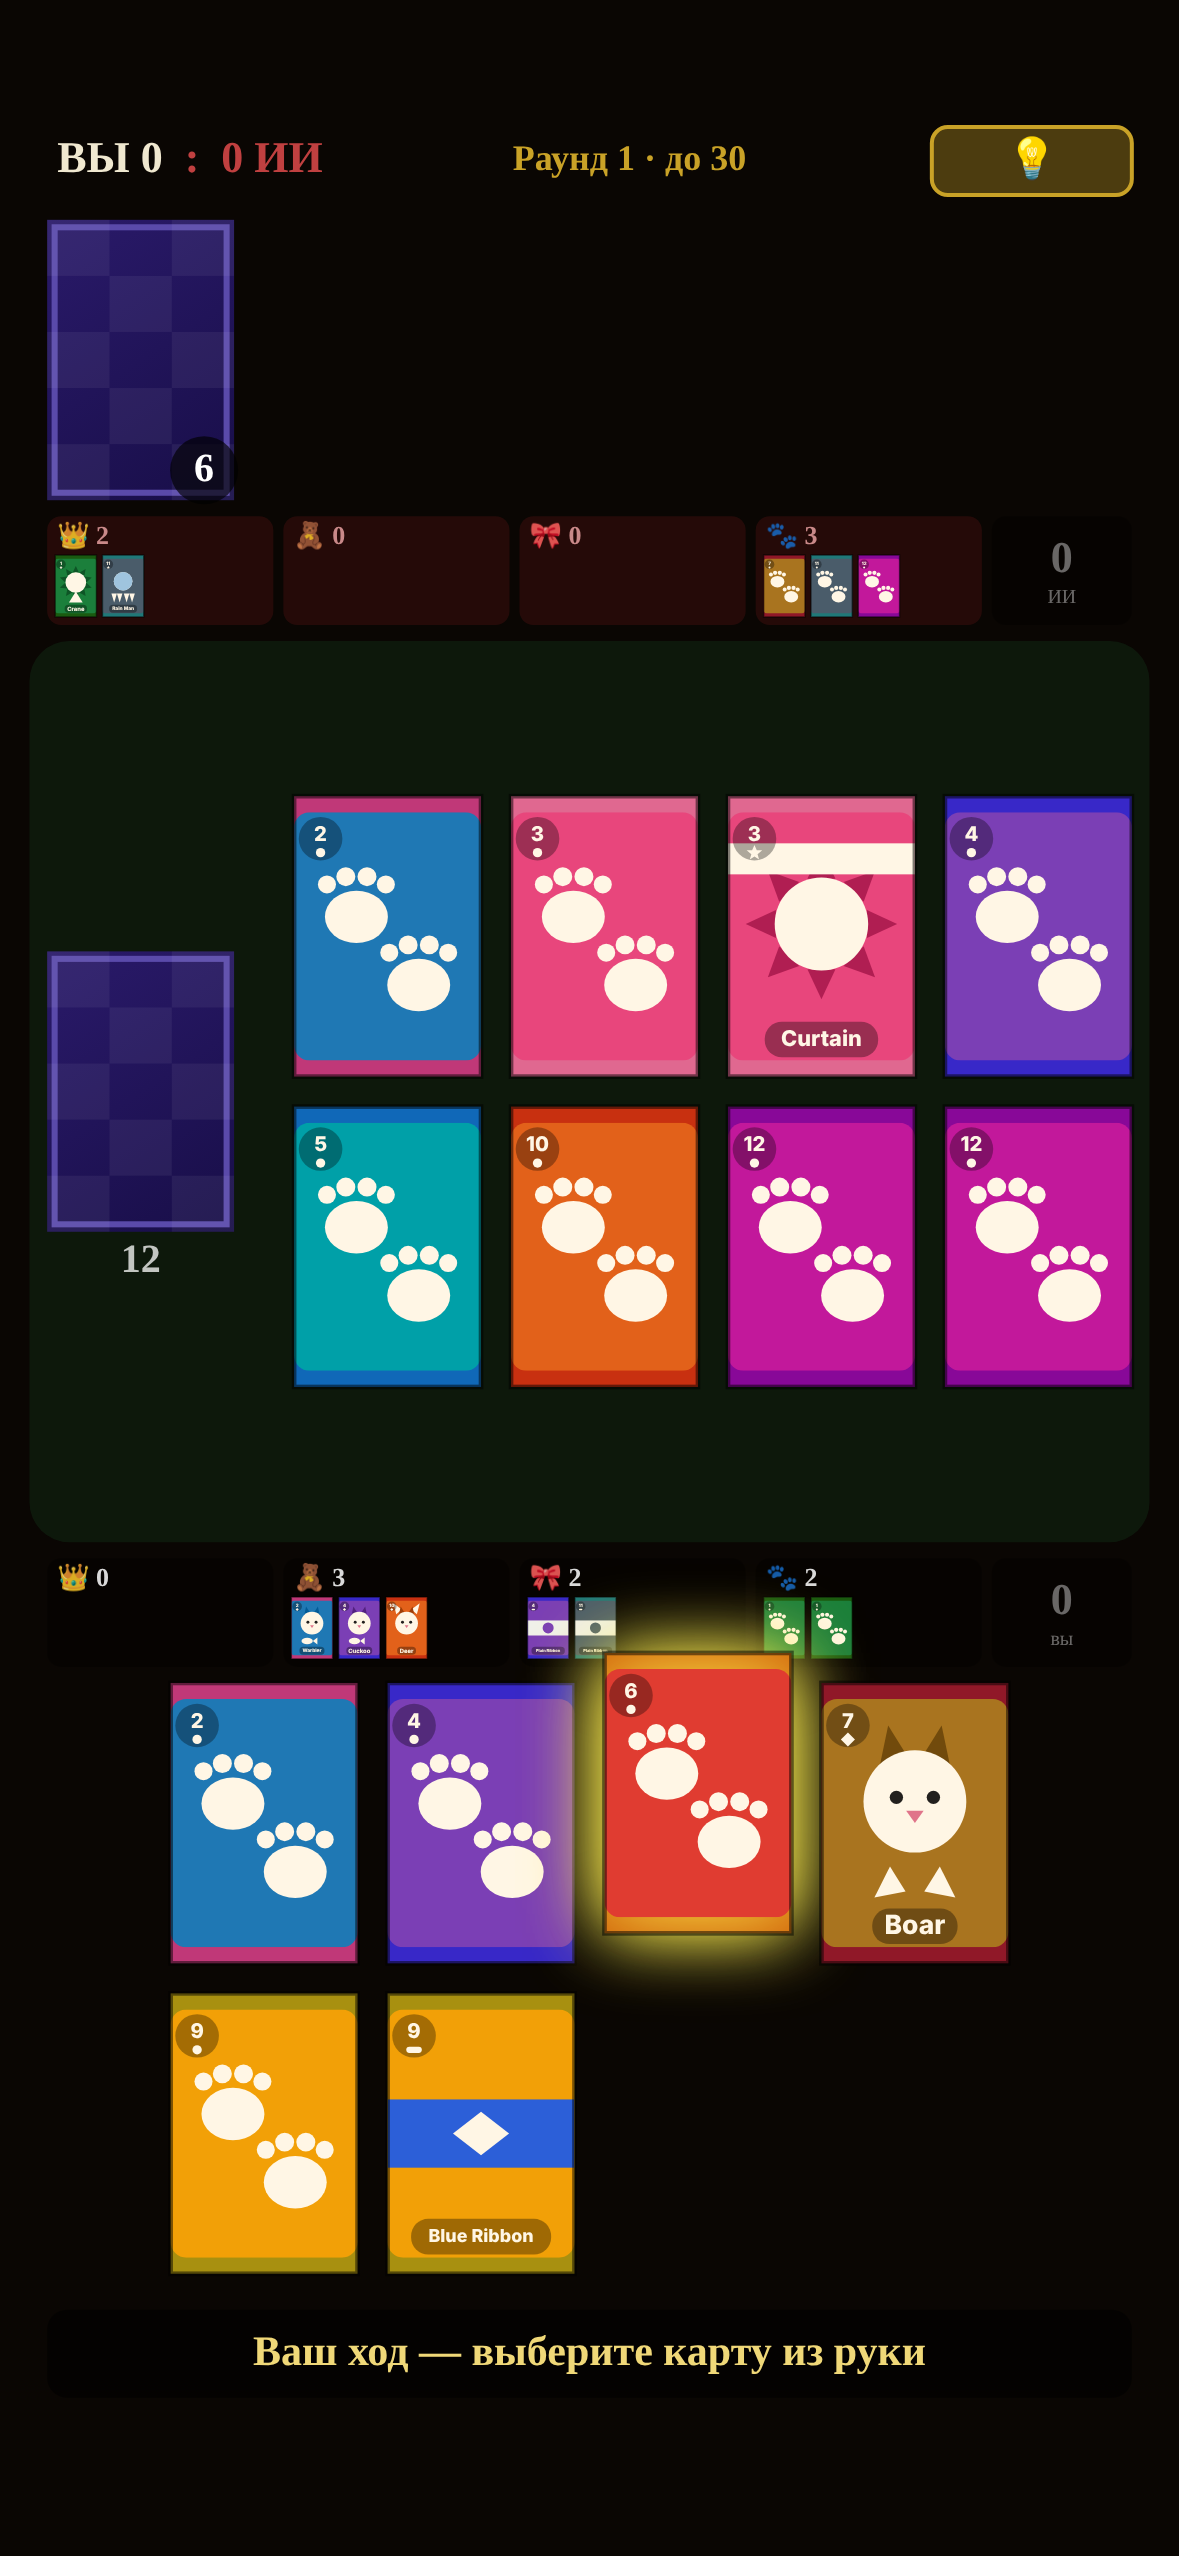
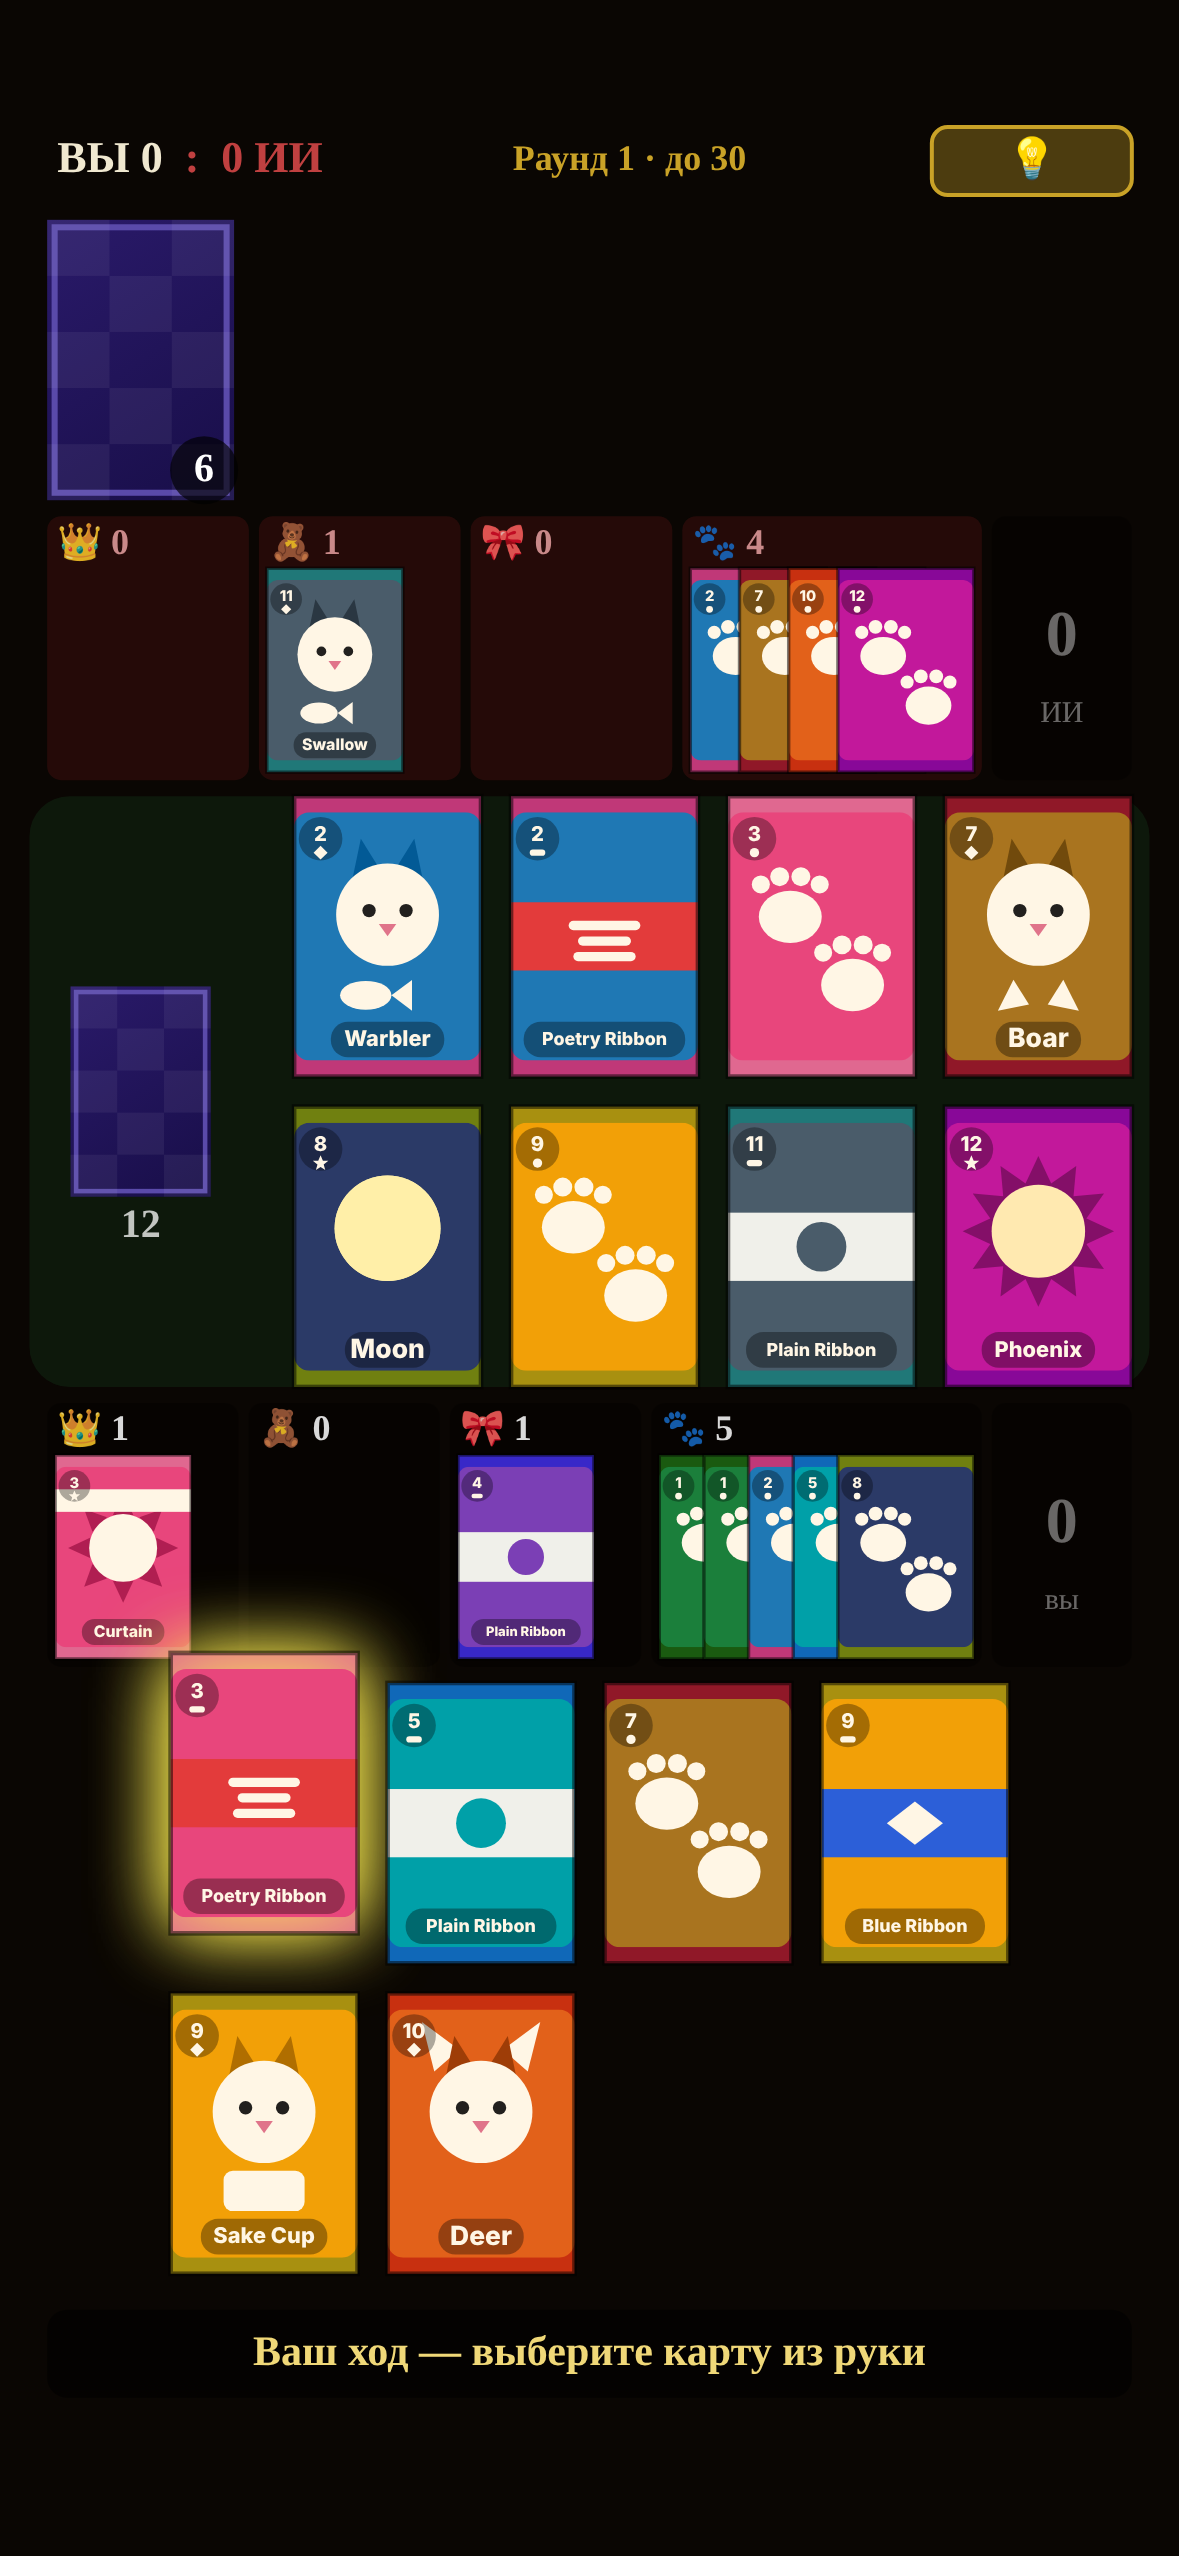
UI v3.2: стол 2 ряда, колода 0.75, крупные ячейки яку
Место третьего ряда стола отдано ячейкам яку (141 → 296 px на iPhone 15).
Ширина ячейки — по числу карт, мини-карты внахлёст с видимым месяцем,
2–3 ряда при многих картах. Рука остаётся сеткой 2×4.

Claude-Session: https://claude.ai/code/session_01YWBhc7XyH6Quahzkpjq16G

diff --git a/tools/ui-shots/measure.js b/tools/ui-shots/measure.js
@@ -12,8 +12,8 @@ const { chromium } = require('/opt/node-tools/node_modules/playwright');
         sidePct:+(L.sx/L.VW*100).toFixed(1), topPct:+(L.sTop/L.VH*100).toFixed(1), botPct:+((L.VH-L.sBot)/L.VH*100).toFixed(1),
         safeW:px(SAFE_W), padPct:+(L.pad/(L.sBot-L.sTop)*100).toFixed(1),
         gapDeckTable:px(L.colX-(L.deck.x+BCW)), gapX:px(B_GAP), rowW:px(T[3].x+T[3].w-L.sx),
-        tableH3rows:px(L.table.h), cellsGap:px(L.cellsGap), band:px(L.band.h),
-        handCentered:Math.abs(hd[0].x+(hd[3].x+BCW)-L.VW)<0.01, aiAlignedDeck:L.ai.x===L.deck.x };
+        tableH:px(L.table.h), deck:[px(L.deck.w),px(L.deck.h)], cellsGap:px(L.cellsGap), band:px(L.band.h),
+        handCentered:Math.abs(hd[0].x+(hd[3].x+BCW)-L.VW)<0.01, aiAtZoneLeft:L.ai.x===L.sx };
     });
     console.log(name, JSON.stringify(r)); await p.close();
   }

diff --git a/docs/ui-layout.md b/docs/ui-layout.md
@@ -1,4 +1,4 @@
-# Раскладка игрового экрана (UI v3, 2026-10-10)
+# Раскладка игрового экрана (UI v3.2, 2026-10-10)
 
 Ветка `ui/screen-layout`. **В `main` пока не влита** — ждёт решения пользователя
 после просмотра на телефоне. Скриншоты: `docs/ui/iphone15-turn.png`,
@@ -32,21 +32,24 @@
   занимал 1180 px, то есть шире зоны. **По слову пользователя промежуток x = 30**,
   у колоды — 2x. Ширина карты берётся из условия «ряд = ширина зоны»:
   5w + 5x = 1084,7 → **w = 186,9, h = 1,5w = 280,4** (пропорция 2:3).
-- Стол — **место на 3 ряда по 4** (3h + 2x = 901), колода по центру этого места.
+- Стол — **2 ряда по 4** (2h + x = 591); больше 8 карт — ряды ужимаются.
+  **Колода меньше карт стола** (0,75 → 140×210), по центру своей колонки.
+  (v3.1 держал место на 3 ряда — по слову пользователя отказались ради яку,
+  ориентир — скрин чужой ханафуды: стол 2 ряда, колода меньше, яку крупно.)
 - Полоса «Мяу-Мяу»/сообщений (100) — под рукой через x, под полосой 50 до края
   зоны. Нижний отступ 5% из схемы заменён этим, рука поднята на 62 px.
 
 Счёт по высоте (iPhone 15, реф. px): поле 102 · отступ 5% зоны 118 (в нём шапка:
-счёт, раунд, 💡) · карта ИИ 280 · ячейки яку ИИ **141** · стол 901 · ячейки яку
-игрока **141** · рука 280 + 30 + 280 · 30 · полоса 100 · 50 · поле 102 = 2556.
-Ячейкам яку остаётся немного — это цена места под 3 ряда стола.
+счёт, раунд, 💡) · карта ИИ 280 · ячейки яку ИИ **296** · стол 591 · ячейки яку
+игрока **296** · рука 280 + 30 + 280 · 30 · полоса 100 · 50 · поле 102 = 2556.
+Рука веером не делается — остаётся сетка 2×4.
 
 ## Как реализовано
 
 Модуль «Игровой стол: раскладка под экран (макет v3)» в `index.html`.
 Константы: `REF_W=1179`, `SAFE_M=0.04`, `SAFE_W=REF_W·0.92`, `ZONE_PAD=0.05`,
-`B_GAP=30`, `BCW=(SAFE_W−5·B_GAP)/5`, `BCH=1.5·BCW`, `TABLE_ROWS=3`,
-`BAND_H=100`, `BAND_BOTTOM=50`, `HEADER_H=80`, `MIN_CELLS=120`.
+`B_GAP=30`, `BCW=(SAFE_W−5·B_GAP)/5`, `BCH=1.5·BCW`, `TABLE_ROWS=2`, `DECK_K=0.75`,
+`BAND_H=100`, `BAND_BOTTOM=50`, `HEADER_H=80`, `MIN_CELLS=200`.
 
 **Масштаб.** `resizeCanvas()`: холст на весь экран, внутреннее разрешение ×
 devicePixelRatio. `k = ширина/1179`; если по высоте не помещается (промежуток
@@ -64,23 +67,26 @@ Telegram). Пересчёт на `resize` и событиях Telegram
 2. Карта ИИ рубашкой с числом карт — у левого края зоны, над колодой. Справа
    (на первой колонке стола) — карта, которую ИИ сейчас играет; «ИИ ходит…».
 3. Ячейки ИИ: 👑 яркие, 🧸 животные, 🎀 ленты, 🐾 простые + очки раунда.
-4. Стол на сукне (95% ширины экрана, высота — место на 3 ряда): колода слева
-   по центру, число карт под ней; взятая из колоды карта — поверх колоды.
-   Карты стола по месяцу, 4 колонки; 2–3 ряда полного размера, по центру места;
-   больше 12 — ряды ужимаются. Подсветка целей захвата; в `captureSelect` — клик.
+   Ширина ячейки — по числу карт в ней, чтобы мини-карты везде были одного
+   размера; карты внахлёст, у каждой виден левый край с месяцем (≥ 32%);
+   при многих картах — 2–3 ряда (`miniCardsLayout`). На iPhone 15 мини-карта
+   ~90×134 при ~23 взятых картах, крупнее, когда карт меньше.
+4. Стол на сукне (95% ширины экрана, высота — 2 ряда): колода 0,75 слева
+   по центру, число карт под ней; взятая из колоды карта — полного размера
+   поверх колоды. Карты стола по месяцу, 4 колонки, 2 ряда; больше 8 — ряды
+   ужимаются в ту же высоту. Подсветка целей захвата; в `captureSelect` — клик.
 5. Ячейки игрока — как у ИИ.
 6. Рука 2×4 по центру экрана, по месяцу (`G.pHand` не переупорядочивается).
    Выбранная карта поднята на 30 и светится жёлтым, подсказка — голубая рамка.
 7. Полоса 100: `G.msg` или, в фазе `choose`, кнопки «✋ СТОП» / «🐱 МЯУ-МЯУ».
 
-Замер (`measure.js`): iPhone 15 — карта 186,9×280,4, поля 4/4/4%, отступ 5%,
-2x = 60, x = 30, ряд = 1084,7, ячейки 141; Android 412×915 — ячейки 176;
-16:9 375×667 — не помещается по высоте, k уменьшен, карта 149×223, ячейки 98,5
-(по бокам поля 11,7%).
+Замер (`measure.js`, физ. px): iPhone 15 — карта 186,9×280,4, колода 140×210,
+поля 4/4/4%, отступ 5%, x = 30, ряд = 1084,7, ячейки 296; Android 412×915 —
+ячейки 339; 16:9 375×667 — k уменьшен по высоте, карта 158×237, по бокам 9,3%.
 
 ## Решения, принятые сверх ТЗ (подтвердить у пользователя)
 
-1. Стол — по середине между картой ИИ и рукой; 2 ряда центрируются в месте на 3.
+1. Стол — по середине между картой ИИ и рукой.
 2. Карта хода ИИ — справа от его карты; карта из колоды — поверх колоды.
 3. Шапка (счёт, раунд, 💡) — в верхнем отступе зоны 5%.
 4. Полоса «Мяу-Мяу»: 100 высотой, 30 под рукой, 50 до края зоны.
